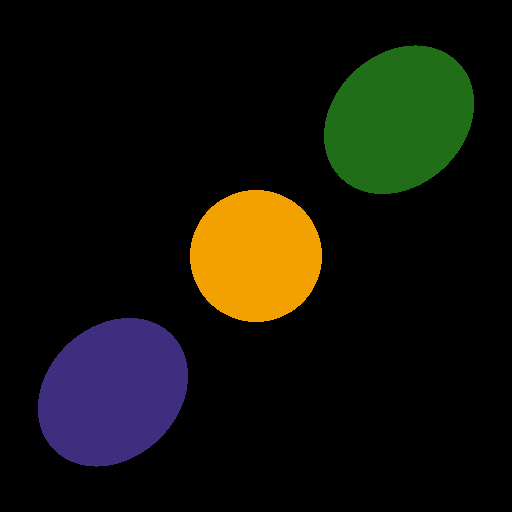
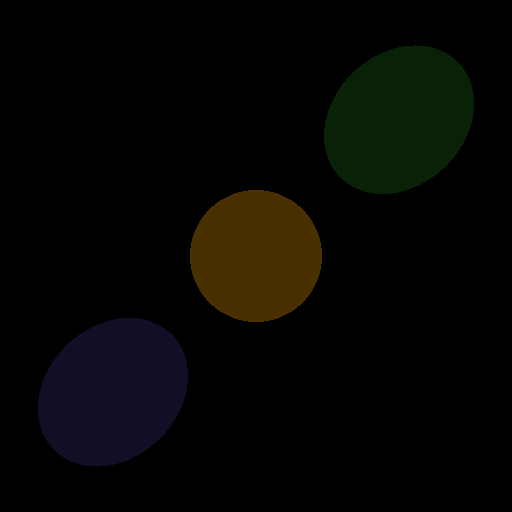
Implemented shadows for example3.png

Changed region(s): [[0.625, 0.0625, 0.9375, 0.4062], [0.0625, 0.5938, 0.375, 0.9375], [0.375, 0.375, 0.625, 0.625]]

diff --git a/src/light/light.rs b/src/light/light.rs
@@ -1,73 +1,229 @@
+use std::ops::{AddAssign, MulAssign};
+
 use serde::Deserialize;
 
-use crate::{deserialization_helpers::{deserialize_color, deserialize_point, deserialize_vector}, vec3::{Color, Point, Vec3}};
+use crate::{
+    deserialization_helpers::{deserialize_color, deserialize_point, deserialize_vector},
+    hittable::HitRecord,
+    hittable_list::HittableList,
+    material::Phong,
+    ray::Ray,
+    vec3::{Color, Point, Vec3},
+};
 
-
-pub struct LightList{
-    pub light_list: Vec<Box<dyn Light>>
+pub struct LightList {
+    pub light_list: Vec<Box<dyn Light>>,
 }
 
-pub trait Light{
+pub struct LightIntensity {
+    pub ambient: Color,
+    pub diffuse: Color,
+    pub specular: Color,
+}
 
+impl LightIntensity {
+    pub fn new() -> Self {
+        Self {
+            ambient: Color::new(),
+            diffuse: Color::new(),
+            specular: Color::new(),
+        }
+    }
+}
+
+impl AddAssign<&LightIntensity> for LightIntensity {
+    fn add_assign(&mut self, rhs: &Self) {
+        self.ambient += &rhs.ambient;
+        self.diffuse += &rhs.diffuse;
+        self.specular += &rhs.specular;
+    }
+}
+
+impl MulAssign<&Phong> for LightIntensity {
+    fn mul_assign(&mut self, rhs: &Phong) {
+        self.ambient *= &rhs.ka;
+        self.diffuse *= &rhs.kd;
+        self.specular *= &rhs.ks;
+    }
+}
+
+pub trait Light {
+    fn calculate_light_intensities(&self, ray: &Ray, hit_record: &HitRecord) -> LightIntensity;
+    fn check_if_in_shadow(&self, hit_record: &HitRecord, surfaces: &HittableList) -> bool;
 }
 
 #[derive(Deserialize)]
-struct AmbientLight{
-    #[serde(deserialize_with="deserialize_color")]
-    color: Color,
+pub struct AmbientLight {
+    #[serde(deserialize_with = "deserialize_color")]
+    pub color: Color,
 }
 
-impl Light for AmbientLight{
+impl Light for AmbientLight {
+    fn calculate_light_intensities(&self, _ray: &Ray, hit_record: &HitRecord) -> LightIntensity {
+        let mut light_intesity = LightIntensity::new();
+        light_intesity.ambient = &hit_record.material.get_color() * &self.color;
+        light_intesity
+    }
 
+    fn check_if_in_shadow(&self, hit_record: &HitRecord, sufaces: &HittableList) -> bool {
+        // Ambient light is not affected by shadows
+        false
+    }
 }
 
-impl Default for LightList{
+impl Default for LightList {
     fn default() -> Self {
-        Self { light_list: Default::default() }
+        Self {
+            light_list: Default::default(),
+        }
+    }
+}
+
+impl LightList {
+    pub fn calculate_final_color(
+        &self,
+        ray: &Ray,
+        hit_record: &HitRecord,
+        surfaces: &HittableList,
+    ) -> Color {
+        let mut light_intensity = LightIntensity::new();
+
+        for light_source in &self.light_list {
+            if light_source.check_if_in_shadow(&hit_record, &surfaces) {
+                continue;
+            }
+
+            light_intensity += &light_source.calculate_light_intensities(&ray, &hit_record);
+        }
+
+        light_intensity *= &hit_record.material.get_phong();
+
+        &(&light_intensity.ambient + &light_intensity.diffuse) + &light_intensity.specular
     }
 }
 
 #[derive(Deserialize)]
-struct ParallelLight{
-    #[serde(deserialize_with="deserialize_color")]
+struct ParallelLight {
+    #[serde(deserialize_with = "deserialize_color")]
     color: Color,
-    #[serde(deserialize_with="deserialize_vector")]
+    #[serde(deserialize_with = "deserialize_vector")]
     direction: Vec3,
 }
 
-impl Light for ParallelLight{
+impl Light for ParallelLight {
+    fn calculate_light_intensities(&self, ray: &Ray, hit_record: &HitRecord) -> LightIntensity {
+        let mut light_intensity = LightIntensity::new();
 
+        // Calculate Diffuse
+        let light_vector = (-&self.direction).unit_vector();
+        let intensity = hit_record.normal.dot(&light_vector).max(0.0);
+        let diffuse_intensity = &(&hit_record.material.get_color() * &self.color) * &intensity;
+
+        // Calculate Specular
+        //r = 2(n ⋅ l)n – l
+        let reflection_vector = (&(&(&2.0 * &(hit_record.normal.dot(&light_vector)))
+            * &hit_record.normal)
+            - &light_vector)
+            .unit_vector();
+
+        let eye_vector = -&ray.direction.unit_vector();
+        let specular_intensity = &(eye_vector
+            .dot(&reflection_vector)
+            .max(0.0)
+            .powf(hit_record.material.get_phong().exponent))
+            * &self.color;
+        light_intensity.diffuse = diffuse_intensity;
+        light_intensity.specular = specular_intensity;
+        light_intensity
+    }
+
+    fn check_if_in_shadow(&self, hit_record: &HitRecord, surfaces: &HittableList) -> bool {
+        //Check if light_vector intersects with any object
+        let light_vector = (-&self.direction).unit_vector();
+        surfaces.shadow_check(
+            &Ray {
+                origin: hit_record.point,
+                direction: light_vector,
+            },
+            0.00001, // offset prevent intersection with object itself
+            f32::INFINITY,
+        )
+    }
 }
 
 #[derive(Deserialize)]
-struct PointLight{
-    #[serde(deserialize_with="deserialize_color")]
+struct PointLight {
+    #[serde(deserialize_with = "deserialize_color")]
     color: Color,
-    #[serde(deserialize_with="deserialize_point")]
+    #[serde(deserialize_with = "deserialize_point")]
     position: Point,
 }
 
-impl Light for PointLight{
-    
+impl Light for PointLight {
+    fn calculate_light_intensities(&self, ray: &Ray, hit_record: &HitRecord) -> LightIntensity {
+        let mut light_intensity = LightIntensity::new();
+
+        // Calculate Diffuse
+        let light_vector = (&self.position - &hit_record.point).unit_vector();
+        let intensity = hit_record.normal.dot(&light_vector).max(0.0);
+        let diffuse_intensity = &(&hit_record.material.get_color() * &self.color) * &intensity;
+
+        // Calculate Specular
+        //r = 2(n ⋅ l)n – l
+        let reflection_vector = (&(&(&2.0 * &(hit_record.normal.dot(&light_vector)))
+            * &hit_record.normal)
+            - &light_vector)
+            .unit_vector();
+
+        let eye_vector = -&ray.direction.unit_vector();
+        let specular_intensity = &(eye_vector
+            .dot(&reflection_vector)
+            .max(0.0)
+            .powf(hit_record.material.get_phong().exponent))
+            * &self.color;
+        light_intensity.diffuse = diffuse_intensity;
+        light_intensity.specular = specular_intensity;
+        light_intensity
+    }
+
+    fn check_if_in_shadow(&self, hit_record: &HitRecord, surfaces: &HittableList) -> bool {
+        let light_vector = (&self.position - &hit_record.point).unit_vector();
+        surfaces.shadow_check(
+            &Ray {
+                origin: hit_record.point,
+                direction: light_vector,
+            },
+            0.00001, // offset prevent intersection with object itself
+            f32::INFINITY,
+        )
+    }
 }
 
 #[derive(Deserialize)]
-struct SpotLight{
-    #[serde(deserialize_with="deserialize_color")]
+struct SpotLight {
+    #[serde(deserialize_with = "deserialize_color")]
     color: Color,
-    #[serde(deserialize_with="deserialize_point")]
+    #[serde(deserialize_with = "deserialize_point")]
     position: Point,
-    #[serde(deserialize_with="deserialize_vector")]
+    #[serde(deserialize_with = "deserialize_vector")]
     direction: Vec3,
     fall_off: FallOff,
 }
 
-impl Light for SpotLight{
-    
+impl Light for SpotLight {
+    fn calculate_light_intensities(&self, _ray: &Ray, _hit_record: &HitRecord) -> LightIntensity {
+        // Not necessary for lab3a
+        LightIntensity::new()
+    }
+
+    fn check_if_in_shadow(&self, _hit_record: &HitRecord, _surfaces: &HittableList) -> bool {
+        // Not necessary for lab3a
+        false
+    }
 }
 
 #[derive(Deserialize)]
-struct FallOff{
+struct FallOff {
     #[serde(rename = "@alpha1")]
     alpha1: f32,
     #[serde(rename = "@alpha2")]
@@ -126,14 +282,12 @@ impl<'de> Deserialize<'de> for LightList {
             .map(|light_type| -> Box<dyn Light> {
                 match light_type {
                     LightEnum::Ambient { color } => Box::new(AmbientLight { color }),
-                    LightEnum::Parallel { color, direction } => Box::new(ParallelLight {
-                        color,
-                        direction,
-                    }),
-                    LightEnum::Point { color, position } => Box::new(PointLight {
-                        color,
-                        position,
-                    }),
+                    LightEnum::Parallel { color, direction } => {
+                        Box::new(ParallelLight { color, direction })
+                    }
+                    LightEnum::Point { color, position } => {
+                        Box::new(PointLight { color, position })
+                    }
                     LightEnum::Spot {
                         color,
                         position,

diff --git a/src/main.rs b/src/main.rs
@@ -24,38 +24,13 @@ use vec3::{Color, Point, Vec3};
 use crate::{hittable_list::HittableList, sphere::Sphere};
 
 fn ray_color(ray: &Ray, scene: &Scene) -> Color {
-    /*let t = hit_sphere(&Point::from_values(0.0, 0.0, -1.0), &0.5, &ray);
-    if t > 0.0 {
-        let normal = Vec3::unit_vector(&(&ray.at(t) - &Vec3::from_values(0.0, 0.0, -1.0)));
-        return &0.5 * &Color::from_values(normal.x() + 1.0, normal.y() + 1.0, normal.z() + 1.0);
-    }*/
     let mut hit_record = HitRecord::new();
-    //let white = Color::from_values(1.0, 1.0, 1.0);
-    //let blue = Color::from_values(0.5, 0.7, 1.0);
 
     if scene.surfaces.hit(ray, 0.0, INFINITY, &mut hit_record) {
-        //return &0.5 * &(&hit_record.normal + &white)
-        return hit_record.material.get_color()
+        return scene.lights.calculate_final_color(&ray, &hit_record, &scene.surfaces)
     }
     scene.background_color
-    /*let normalized_direction_vector = Vec3::unit_vector(&ray.direction);
-    let t = 0.5 * (normalized_direction_vector.y() + 1.0);
-    
-    &(&(1.0 - t) * &white) + &(&t * &blue)*/
 }
-
-/*fn hit_sphere(center: &Point, radius: &f32, ray: &Ray) -> f32 {
-    let oc = &ray.origin - &center;
-    let a = ray.direction.length_squared();
-    let half_b = Vec3::dot(&oc, &ray.direction);
-    let c = oc.length_squared() - radius * radius;
-    let discriminant = half_b * half_b - a * c;
-    if discriminant < 0.0 {
-        -1.0
-    } else {
-        (-half_b - f32::sqrt(discriminant)) / a
-    }
-}*/
 
 fn main() {
     let scene = file_loader::load_and_deserialize_scene().expect("Failed to create scene!");
@@ -73,7 +48,6 @@ fn main() {
         for i in 0..scene.camera.resolution_horizontal {
             let ray = scene.camera.construct_ray(i as f64, j as f64);
             let color: Color = ray_color(&ray, &scene);
-            //print!("{}\n", color);
             color_utility::to_png_color(&color, &mut image_data);
             progress_bar.inc(1);
         }

diff --git a/src/material.rs b/src/material.rs
@@ -6,6 +6,7 @@ use crate::{deserialization_helpers::deserialize_color, vec3::Color};
 
 pub trait Material {
     fn get_color(&self) -> Color;
+    fn get_phong(&self) -> Phong;
 }
 
 #[derive(Deserialize)]
@@ -39,6 +40,10 @@ impl Material for MaterialSolid {
     fn get_color(&self) -> Color {
         self.color.clone()
     }
+
+    fn get_phong(&self) -> Phong {
+        self.phong.clone()
+    }
 }
 
 #[derive(Deserialize)]
@@ -54,9 +59,13 @@ impl Material for MaterialTextured {
     fn get_color(&self) -> Color {
         Color::new()
     }
+
+    fn get_phong(&self) -> Phong {
+        self.phong.clone()
+    }
 }
 
-#[derive(Deserialize)]
+#[derive(Deserialize, Clone)]
 pub struct Phong {
     #[serde(rename = "@ka")]
     pub ka: f32,

diff --git a/src/hittable_list.rs b/src/hittable_list.rs
@@ -21,6 +21,19 @@ impl HittableList {
     pub fn add(&mut self, object: Rc<dyn Hittable>) {
         self.objects.push(object);
     }
+
+    pub fn shadow_check(&self, ray: &Ray, t_min: f32, t_max: f32) -> bool {
+        let mut temp_hit_record = HitRecord::new();
+        let mut closest_so_far = t_max;
+
+        for object in &self.objects {
+            if object.hit(ray, t_min, closest_so_far, &mut temp_hit_record) {
+                return true;
+            }
+        }
+
+        return false;
+    }
 }
 
 impl Hittable for HittableList {

diff --git a/src/png_creator.rs b/src/png_creator.rs
@@ -19,7 +19,7 @@ pub(crate) fn create_png_at_path(png_data: &Vec<u8>, scene: &Scene) -> Result<()
     encoder.set_color(ColorType::Rgb);
     encoder.set_depth(BitDepth::Eight);
 
-    // Taken from the png rust doc - to assure the same colors
+    // Taken from the png rust doc - to ensure the same colors
     let source_chromaticities = png::SourceChromaticities::new(
         (0.31270, 0.32900),
         (0.64000, 0.33000),
